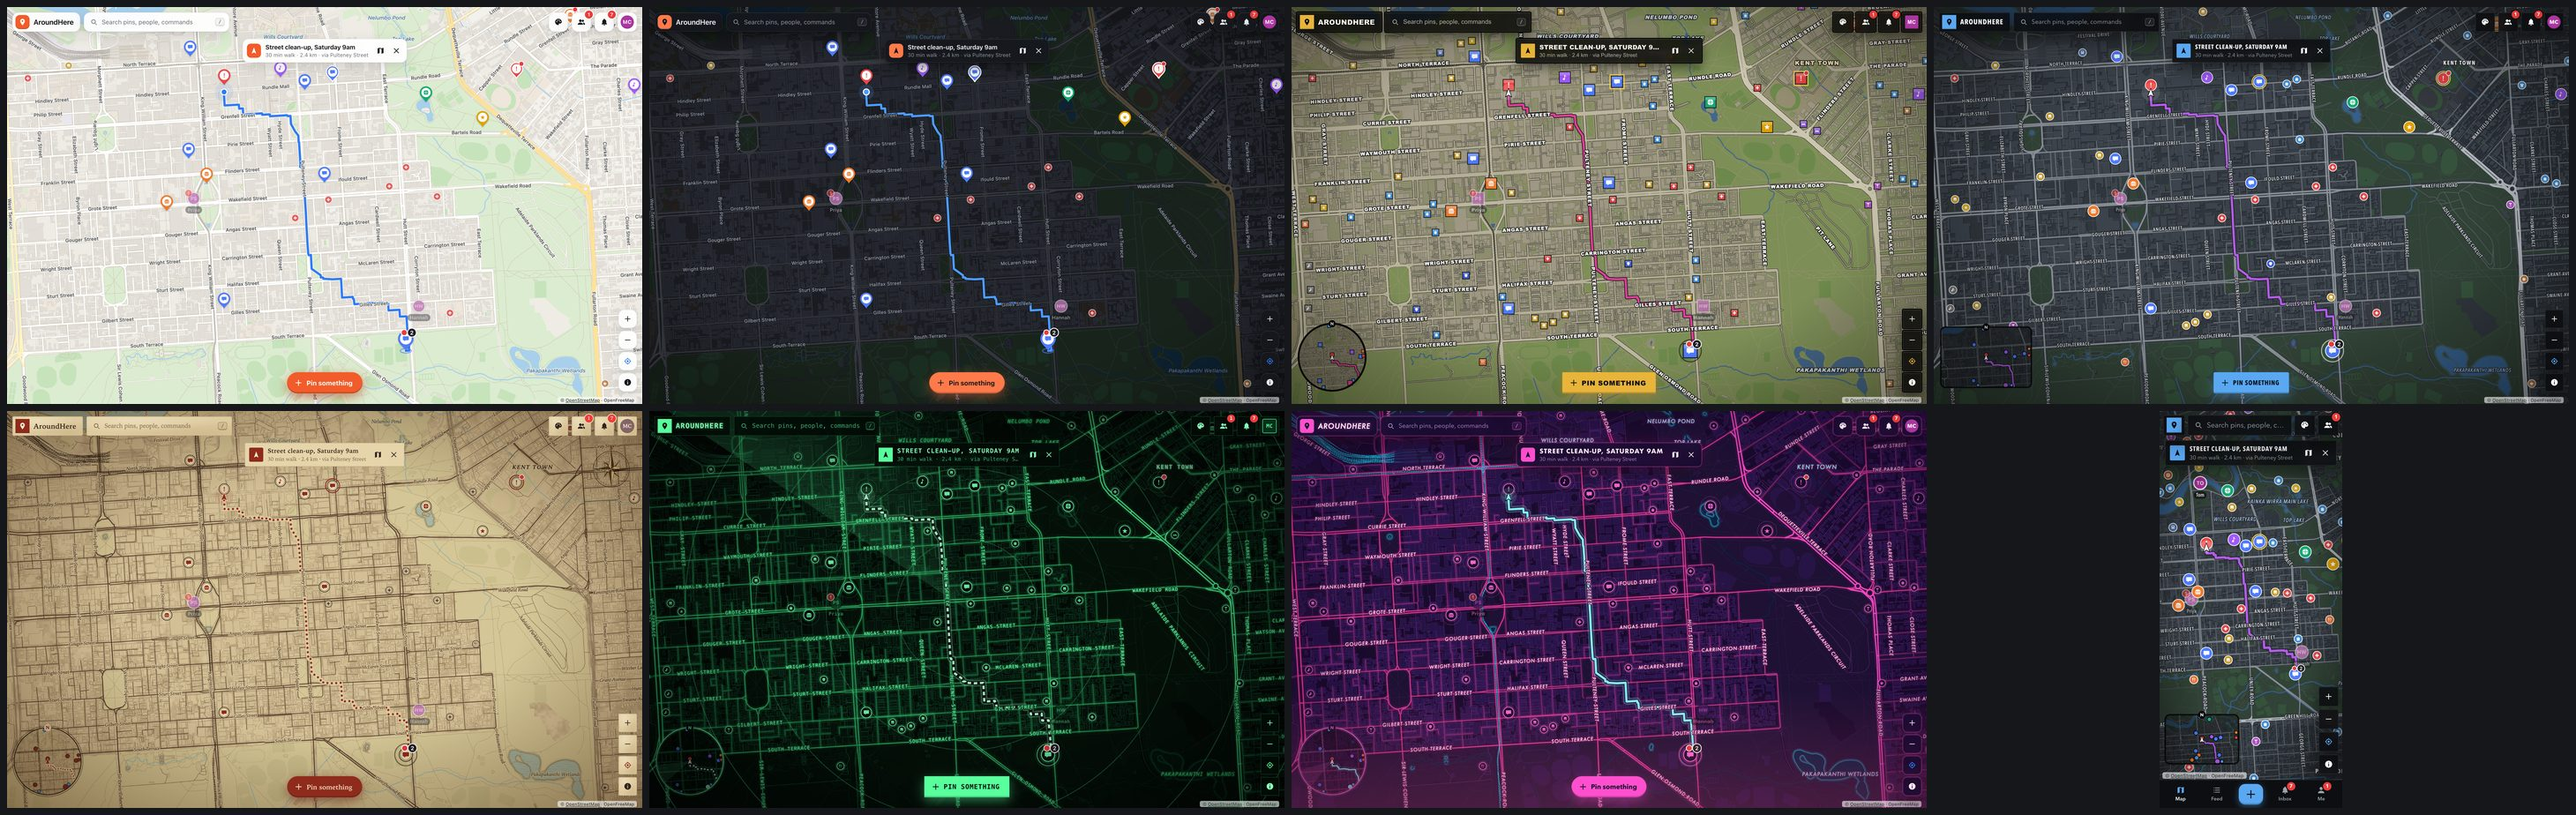
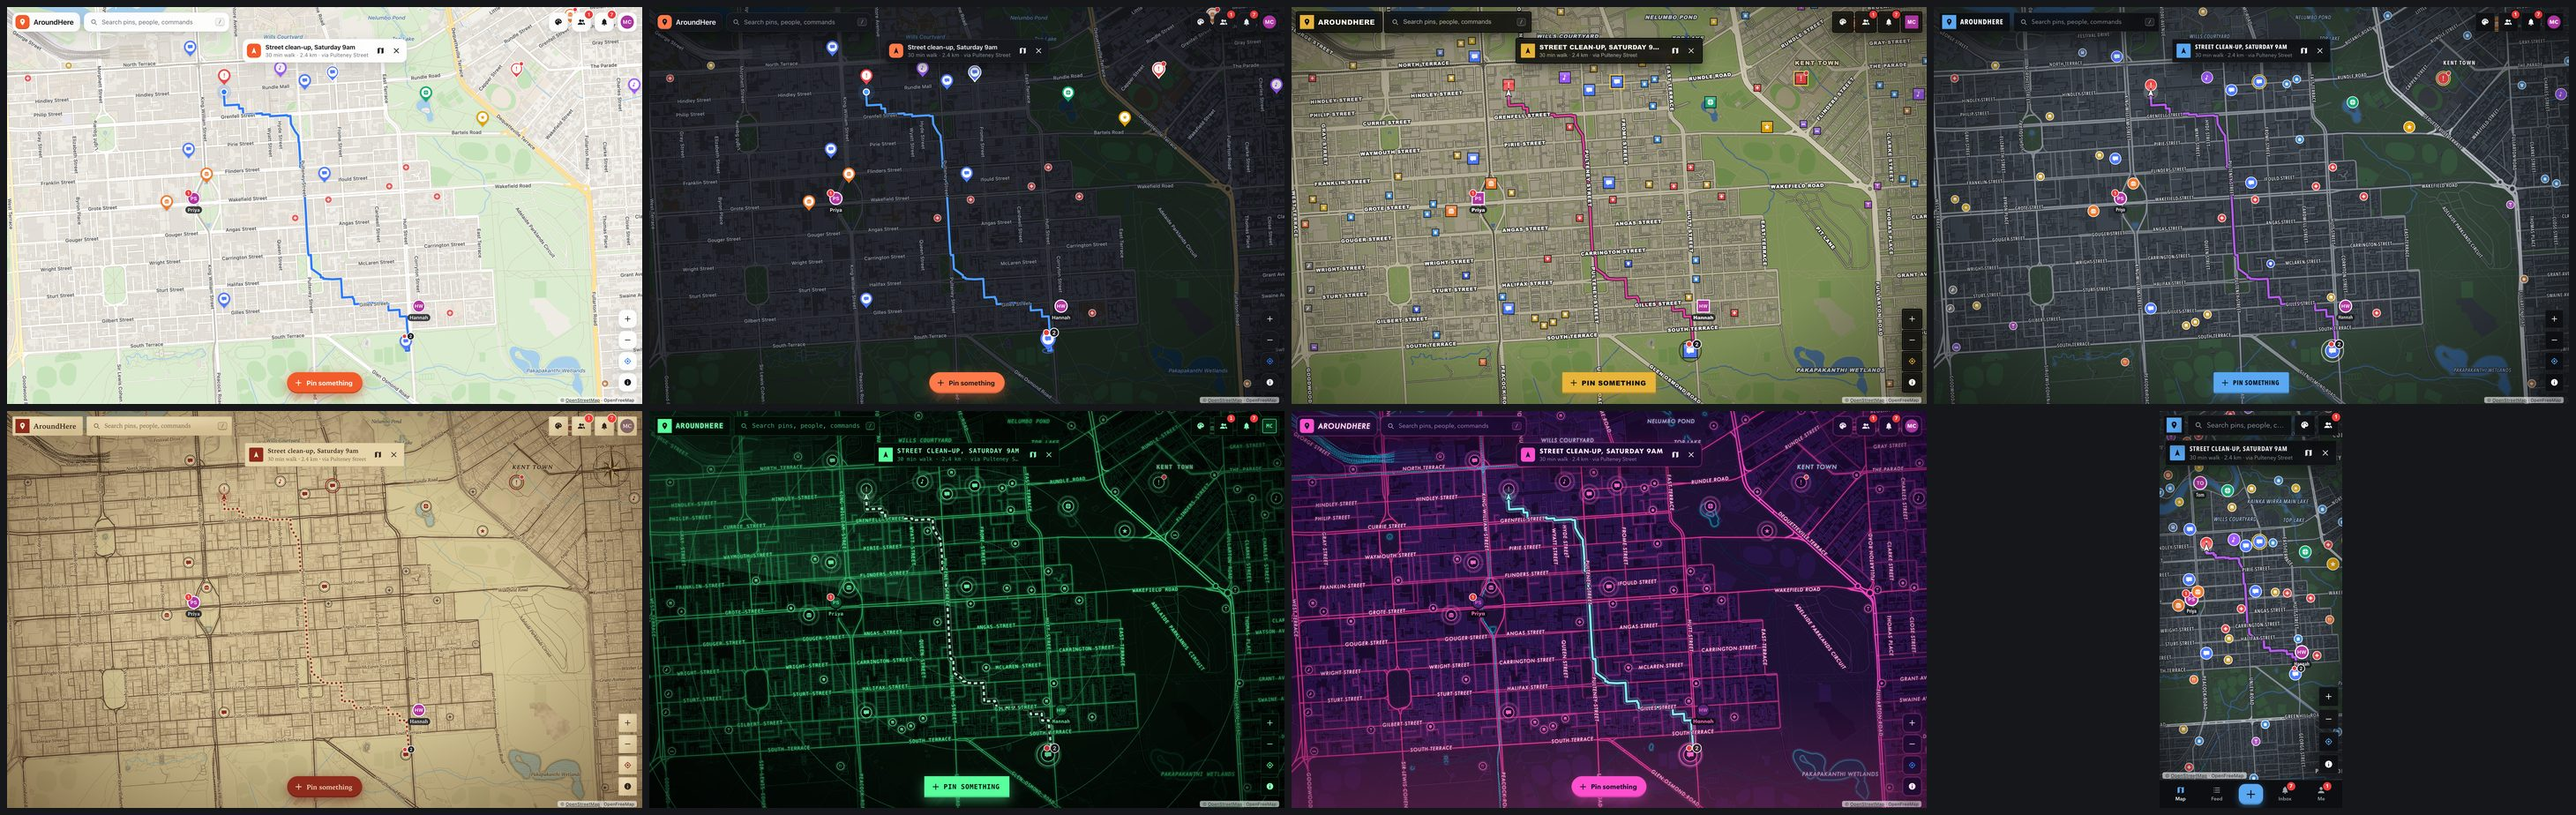
Remove the corner minimap from the game styles
The mission line drops back to just above the map's bottom edge, and the
README pictures and link preview are taken again without it.

diff --git a/src/map.ts b/src/map.ts
@@ -195,7 +195,7 @@ export const mapThemes: Record<string, MapTheme> = {
     font: sans, labelColor: '#8e96a3', labelHalo: '#16181d', placeColor: '#c5ccd6', waterLabel: '#4d7394',
     caps: false, italic: false, blip: 'pin', blipInk: '#ffffff', poiAlpha: 0.75, me: '#4c9bff', route: '#4c9bff', routeLine: 'solid', photo: 'none',
   },
-  // Sun-bleached radar from a certain early-2000s west coast crime saga.
+  // The sun-bleached map of a certain early-2000s west coast crime saga.
   coast: {
     land: '#8b9468', texture: 'grain',
     water: '#44698f', waterShore: null, waterHatch: null,
@@ -793,10 +793,9 @@ export type MapState = {
   samples: { x: number; y: number; t: number }[]
 
   fade: { canvas: HTMLCanvasElement; start: number } | null // the old style, fading out after a switch
-  radar: { x: number; y: number; r: number } | null // the corner minimap, in css px; null when hidden
 
   // The settled map (land, tiles, labels) kept as one bitmap, so frames that only
-  // animate pins, the radar sweep or pulses just blit it and draw those on top.
+  // animate pins or pulses just blit it and draw those on top.
   base: HTMLCanvasElement
   baseDirty: boolean // something besides the camera changed (tiles, markers, style, size)
   baseCamera: string // the camera the base was taken at; any other camera redraws
@@ -857,7 +856,7 @@ export function createMap(canvas: HTMLCanvasElement, lng: number, lat: number, z
     markers: [], visible: [], labelAlpha: new Map(), hovered: null, highlight: null, draftMode: false,
     fly: null, zoomTarget: null, zoomAnchorX: 0, zoomAnchorY: 0, vx: 0, vy: 0, lastTime: 0,
     pointers: new Map(), downX: 0, downY: 0, moved: false, lastTap: 0, lastPointer: 'mouse', samples: [],
-    fade: null, radar: null, base: document.createElement('canvas'), baseDirty: true, baseCamera: '', markerKey: '', tileUrl: null, sources: new Map(), queue: [], fetching: 0, rasters: new Map(), sprites: new Map(), textures: new Map(), images: new Map(), born: new Map(),
+    fade: null, base: document.createElement('canvas'), baseDirty: true, baseCamera: '', markerKey: '', tileUrl: null, sources: new Map(), queue: [], fetching: 0, rasters: new Map(), sprites: new Map(), textures: new Map(), images: new Map(), born: new Map(),
     frameCount: 0, frameRequested: false, destroyed: false, cleanup: () => {},
     onClick: () => {}, onHover: () => {}, onFrame: () => {}, onUserMove: () => {}, onTile: () => {}, onLongPress: () => {},
     route: null, onRoute: () => {},
@@ -913,16 +912,6 @@ export function setTheme(m: MapState, name: string) {
   m.rasters.clear()
   m.sprites.clear()
   m.baseDirty = true
-  requestFrame(m)
-}
-
-// The rectangular radar is this much wider than tall (its half width over r).
-export const RADAR_WIDE = 1.35
-
-export function setRadar(m: MapState, radar: { x: number; y: number; r: number } | null) {
-  const same = radar && m.radar && radar.x === m.radar.x && radar.y === m.radar.y && radar.r === m.radar.r
-  if (same || (!radar && !m.radar)) return
-  m.radar = radar
   requestFrame(m)
 }
 
@@ -1138,13 +1127,6 @@ function attachInput(m: MapState) {
         return
       }
       m.lastTap = now
-      const me = m.markers.find((marker) => marker.kind === 'me')
-      const wide = m.theme.blip === 'round' ? RADAR_WIDE : 1
-      if (me && m.radar && Math.abs(p.x - m.radar.x) <= m.radar.r * wide && Math.abs(p.y - m.radar.y) <= m.radar.r) {
-        // The radar is a button: back to where you are.
-        flyTo(m, xToLng(me.x), yToLat(me.y), Math.max(m.zoom, 16))
-        return
-      }
       const marker = pickMarker(m, p.x, p.y)
       if (marker?.kind === 'cluster') {
         // A crowd of pins: go closer until they separate.
@@ -2947,14 +2929,13 @@ function frame(m: MapState, time: number) {
   }
 
   const animated = drawMarkers(m, view, time)
-  const sweeping = m.radar ? drawRadar(m, view, time) : false
   if (drawFade(m, time)) keepGoing = true
 
   m.onFrame()
 
   if (keepGoing) requestFrame(m)
-  else if (animated || sweeping) {
-    // Pulses and sweeps don't need 60 fps; let the battery breathe.
+  else if (animated) {
+    // Pulses don't need 60 fps; let the battery breathe.
     setTimeout(() => requestFrame(m), 33)
   }
 }
@@ -3240,147 +3221,6 @@ function drawMarkers(m: MapState, v: View, time: number) {
   // A drop needs every frame to look right; pulses can make do with fewer.
   if (dropping) requestFrame(m)
   return animated
-}
-
-// The corner radar of the game styles: the streets around you, a little further
-// out than the map, your arrow in the middle, north at the top. Pins and friends
-// in range are dots; those out of range wait on the rim, in their direction.
-function drawRadar(m: MapState, v: View, time: number) {
-  const t = m.theme
-  const c = m.ctx
-  const { x: cx, y: cy, r } = m.radar!
-  const me = m.markers.find((marker) => marker.kind === 'me')
-  const wx = me ? me.x : m.x
-  const wy = me ? me.y : m.y
-  const zoom = clamp(m.zoom - 1.5, 12, 17)
-  const size = TILE * 2 ** zoom
-  const tileSize = TILE * 2 ** (zoom - v.z)
-
-  // Most radars are round; the modern sprawl's is a wide rounded rectangle.
-  const wide = t.blip === 'round'
-  const hw = wide ? r * RADAR_WIDE : r // half width and height
-  const hh = wide ? r * 0.9 : r
-  const outline = (grow: number) => {
-    c.beginPath()
-    if (wide) c.roundRect(cx - hw - grow, cy - hh - grow, 2 * (hw + grow), 2 * (hh + grow), 10 + grow)
-    else c.arc(cx, cy, r + grow, 0, Math.PI * 2)
-  }
-
-  c.save()
-  outline(0)
-  c.fillStyle = t.land
-  c.fill()
-  c.clip()
-
-  // The tiles of the main map's level, drawn smaller, around the radar's centre.
-  const left = wx * TILE * 2 ** v.z * (tileSize / TILE) - hw
-  const top = wy * TILE * 2 ** v.z * (tileSize / TILE) - hh
-  const count = 2 ** v.z
-  for (let ty = Math.floor(top / tileSize); ty <= Math.floor((top + 2 * hh) / tileSize); ty++) {
-    for (let tx = Math.floor(left / tileSize); tx <= Math.floor((left + 2 * hw) / tileSize); tx++) {
-      if (tx < 0 || ty < 0 || tx >= count || ty >= count) continue
-      const raster = tileRaster(m, v.z, tx, ty, true)
-      if (raster) c.drawImage(raster.canvas, cx - hw + tx * tileSize - left, cy - hh + ty * tileSize - top, tileSize + 0.5, tileSize + 0.5)
-    }
-  }
-
-  // A wash of the style's colour, so the radar reads as its own thing.
-  c.fillStyle = t.blip === 'stamp' ? 'rgba(120, 90, 50, 0.18)' : t.blip === 'square' ? 'rgba(0, 0, 0, 0.18)' : 'rgba(0, 0, 0, 0.3)'
-  c.fillRect(cx - hw, cy - hh, 2 * hw, 2 * hh)
-  if (m.route?.points.length) strokeRoute(c, t, m.route.points, cx - wx * size, cy - wy * size, size, 3)
-  c.restore()
-
-  // Blips: inside, a dot where it is; outside, a smaller one on the rim.
-  // Where the route ends is a waypoint, and always shows.
-  const waypoint = m.route?.points.length ? { x: m.route.toX, y: m.route.toY, kind: 'waypoint', flags: 0, color: t.route } : null
-  for (const marker of waypoint ? [...m.visible, waypoint] : m.visible) {
-    if (marker.kind !== 'pin' && marker.kind !== 'person' && marker.kind !== 'cluster' && marker !== waypoint) continue
-    let dx = (marker.x - wx) * size
-    let dy = (marker.y - wy) * size
-    const d = Math.hypot(dx, dy)
-    const inside = wide ? Math.abs(dx) < hw - 6 && Math.abs(dy) < hh - 6 : d < r - 6
-    if (!inside) {
-      if (marker.kind === 'pin' && !(marker.flags & (MARK_LIVE | MARK_NEW | MARK_SELECTED))) continue // only what matters goes on the rim
-      const k = wide ? Math.min((hw - 5) / Math.abs(dx || 1), (hh - 5) / Math.abs(dy || 1)) : (r - 5) / d
-      dx *= k
-      dy *= k
-    }
-    const size2 = marker === waypoint ? 5.5 : inside ? 4.5 : 3.5
-    c.beginPath()
-    if (t.blip === 'square') c.rect(cx + dx - size2, cy + dy - size2, 2 * size2, 2 * size2)
-    else c.arc(cx + dx, cy + dy, size2, 0, Math.PI * 2)
-    c.fillStyle = marker.kind === 'person' ? '#4c9bff' : t.blip === 'stamp' || marker === waypoint ? t.route : marker.color
-    c.fill()
-    c.lineWidth = 1.2
-    c.strokeStyle = t.blip === 'stamp' ? '#3f2e1e' : '#000'
-    c.stroke()
-  }
-
-  // You, in the middle.
-  c.save()
-  c.translate(cx, cy)
-  if (me) {
-    c.rotate(((me.heading ?? 0) * Math.PI) / 180)
-    drawIcon(c, 'arrow', 0, 1, 20, t.blip === 'stamp' ? '#e9d8b0' : '#000')
-    drawIcon(c, 'arrow', 0, 1, 15, t.blip === 'stamp' ? '#8f2b1c' : '#fff')
-  } else {
-    c.strokeStyle = t.blipInk
-    c.lineWidth = 1.5
-    c.beginPath()
-    c.moveTo(-6, 0)
-    c.lineTo(6, 0)
-    c.moveTo(0, -6)
-    c.lineTo(0, 6)
-    c.stroke()
-  }
-  c.restore()
-
-  // The rim, in each style's way, with north marked.
-  c.save()
-  outline(0)
-  if (t.blip === 'stamp') {
-    c.strokeStyle = '#3f2e1e'
-    c.lineWidth = 2
-    c.stroke()
-    outline(4)
-    c.lineWidth = 0.8
-    c.stroke()
-  } else if (t.blip === 'ring') {
-    c.strokeStyle = t.blipInk
-    c.globalAlpha = 0.2
-    c.lineWidth = 8
-    c.stroke()
-    c.globalAlpha = 1
-    c.lineWidth = 2
-    c.stroke()
-    // The sweep.
-    const angle = (time / 1000) % (Math.PI * 2)
-    c.beginPath()
-    c.moveTo(cx, cy)
-    c.arc(cx, cy, r, angle - 0.6, angle)
-    c.closePath()
-    c.globalAlpha = 0.18
-    c.fillStyle = t.blipInk
-    c.fill()
-    c.globalAlpha = 1
-  } else {
-    c.strokeStyle = t.blip === 'square' ? '#000' : 'rgba(0, 0, 0, 0.8)'
-    c.lineWidth = t.blip === 'square' ? 4 : 3
-    c.stroke()
-  }
-  c.restore()
-
-  c.beginPath()
-  c.arc(cx, cy - hh, 8, 0, Math.PI * 2)
-  c.fillStyle = t.blip === 'stamp' ? '#e9d8b0' : t.blip === 'ring' ? t.land : '#000'
-  c.fill()
-  c.fillStyle = t.blip === 'stamp' ? '#8f2b1c' : t.blip === 'ring' ? t.blipInk : '#fff'
-  c.font = `800 10px ${t.blip === 'stamp' ? t.font : sans}`
-  c.textAlign = 'center'
-  c.textBaseline = 'middle'
-  c.fillText('N', cx, cy - hh + 0.5)
-
-  return t.blip === 'ring' // the sweep turns
 }
 
 // After a style switch, the old picture fades out over the new one.

diff --git a/src/App.tsx b/src/App.tsx
@@ -23,9 +23,9 @@ import {
   type Flair, type Post, type Revision, type Notification,
 } from './data'
 import {
-  createMap, destroyMap, setMarkers, setRadar, setTheme, flyTo, zoomBy, glideBy, requestFrame,
+  createMap, destroyMap, setMarkers, setTheme, flyTo, zoomBy, glideBy, requestFrame,
   project, center, lngToX, latToY, xToLng, yToLat, nearestStreet, findPlaces, setRoute,
-  icons, mapThemes, LEGEND, poiColor, RADAR_WIDE,
+  icons, mapThemes, LEGEND, poiColor,
   MARK_MINE, MARK_SAVED, MARK_NEW, MARK_RESOLVED, MARK_SELECTED, MARK_STALE, MARK_ONLINE, MARK_LIVE,
   type IconName, type MapState, type Marker,
 } from './map'
@@ -42,7 +42,7 @@ const THEMES = [
   { id: 'auto', name: 'Sun', note: 'Day while the sun is up here, Night after' },
   { id: 'day', name: 'Day', note: 'Clean and bright' },
   { id: 'night', name: 'Night', note: 'Easy on the eyes' },
-  { id: 'coast', name: 'Palm Coast', note: '2004 radar, chunky square blips' },
+  { id: 'coast', name: 'Palm Coast', note: '2004 console map, chunky square blips' },
   { id: 'metro', name: 'Metro', note: 'Pause-menu atlas of a modern sprawl' },
   { id: 'frontier', name: 'Frontier', note: 'Hand-inked survey map on parchment' },
   { id: 'radar', name: 'Phosphor', note: 'Green CRT tracking screen' },
@@ -599,20 +599,6 @@ function openArea() {
   const left = feedShowing() ? 392 : 0
   const right = UI.route.kind ? w - 436 : w
   return { left, top: 72, right, bottom: h }
-}
-
-// The game styles get a radar in the bottom-left corner of what's visible of the map.
-function radarPlace() {
-  if (shown() === 'day' || shown() === 'night' || !map) return null
-  const h = map.height
-  if (narrow()) {
-    if (UI.route.kind || UI.feed) return null
-    const r = Math.min(58, Math.round(h * 0.085)) // smaller on short phones
-    return { x: 12 + (shown() === 'metro' ? r * RADAR_WIDE : r), y: h - 60 - 26 - r - 2, r }
-  }
-  const left = feedShowing() ? 392 : 0
-  const half = shown() === 'metro' ? 76 * RADAR_WIDE : 76 // Metro's radar is a wide rectangle
-  return { x: left + 16 + half, y: h - 26 - 80, r: 76 }
 }
 
 function reveal(lat: number, lng: number, zoom?: number, force = false) {
@@ -3421,7 +3407,6 @@ export default function App() {
       paintChrome(shown())
     }
     setMarkers(map, buildMarkers(posts))
-    setRadar(map, radarPlace())
     const target = walkTarget()
     const here = S.here
     setRoute(map, target && here ? { lng: here.longitude, lat: here.latitude, accuracy: here.accuracy } : null, target)

diff --git a/src/App.css b/src/App.css
@@ -2506,7 +2506,7 @@ button.toast {
   position: absolute;
   z-index: 60;
   left: 50%;
-  bottom: 200px; /* over the radar's top */
+  bottom: 100px;
   transform: translateX(-50%);
   width: max-content;
   max-width: min(420px, calc(100vw - 32px));
@@ -3201,7 +3201,7 @@ button.toast {
 
   .objective {
     left: 50% !important; /* phones: over the map, whatever's open */
-    bottom: 230px; /* above the radar, clear of the map buttons */
+    bottom: calc(100px + env(safe-area-inset-bottom)); /* above the tab bar, clear of the map buttons */
     max-width: calc(100vw - 150px);
     font-size: 18px;
   }

diff --git a/README.md b/README.md
@@ -18,7 +18,7 @@ What you can do:
   Soon, ripples on the map while it's on, and goes to your calendar in a tap;
   anything you're in on gets you a word an hour before.
 - **Get there.** A walking route along the streets, drawn on the map (a GPS
-  line in the game styles, on the radar too) with the minutes it takes and
+  line in the game styles) with the minutes it takes and
   the street most of it is on. It shortens as you walk, finds a new way if
   you stray, and works for a friend too, following them as they move (one
   tap tells them you're on your way), or any street search finds. Your own
@@ -38,7 +38,7 @@ What you can do:
   short getting-started list. Settings turns off any kind of notification,
   one by one.
 
-![Get there in Metro: the way along the streets as a GPS line, on the radar too, with the mission line and the walk bar](docs/walk.jpg)
+![Get there in Metro: the way along the streets as a GPS line, with the mission line and the walk bar](docs/walk.jpg)
 
 ## Running it
 
@@ -113,7 +113,7 @@ password reset) into Authentication → Email Templates, so emails carry a
    pops up on Maya's map with a ripple, and she gets a notification.
 5. As Maya, open Hannah's street clean-up and press Get there: the way along
    the streets, with the time it takes. Press `T` for Metro to see it as a
-   purple GPS line, on the radar too. (It starts from where you really are;
+   purple GPS line. (It starts from where you really are;
    away from Adelaide, set a location near the city centre in the browser's
    dev tools, under Sensors.)
 6. On a phone (or the browser's phone view): the tab bar, sheets you drag up
@@ -128,7 +128,7 @@ Press `T` to cycle, or pick one in Settings.
 | Sun        | Day while the sun is up where you are, Night after (worked out from the sun's position, no service) |
 | Day        | Clean and bright |
 | Night      | Dark, easy on the eyes |
-| Palm Coast | Sun-bleached 2004 console radar: square blips, fat outlined caps |
+| Palm Coast | Sun-bleached 2004 console map: square blips, fat outlined caps |
 | Metro      | Modern pause-menu atlas: dark slate, round blips, condensed type |
 | Frontier   | Hand-inked survey map on parchment: wobbly ink, hatched water, tree marks |
 | Phosphor   | Green CRT tracking screen with glow, scanlines and a sweep |
@@ -137,10 +137,7 @@ Press `T` to cycle, or pick one in Settings.
 Each style changes the map, the blips and people, the whole interface, and the
 screen effect on top. The game styles cover the map in place blips from
 further out, like a pause-menu map; the legend (the `i` button) says what
-they mean. They also get a radar in the corner: the streets around you, your
-arrow, north on the rim, friends and live pins waiting on the edge in their
-direction, and the route when you're walking somewhere. Tap it to go back to
-where you are. Setting off somewhere, they say so the way their games do, with
+they mean. Setting off somewhere, they say so the way their games do, with
 a mission line at the bottom ("Go to the street clean-up."), and messages go
 up top left, each style in its own way: a help box, an inked band, a line of
 terminal output, a neon-edged box.
